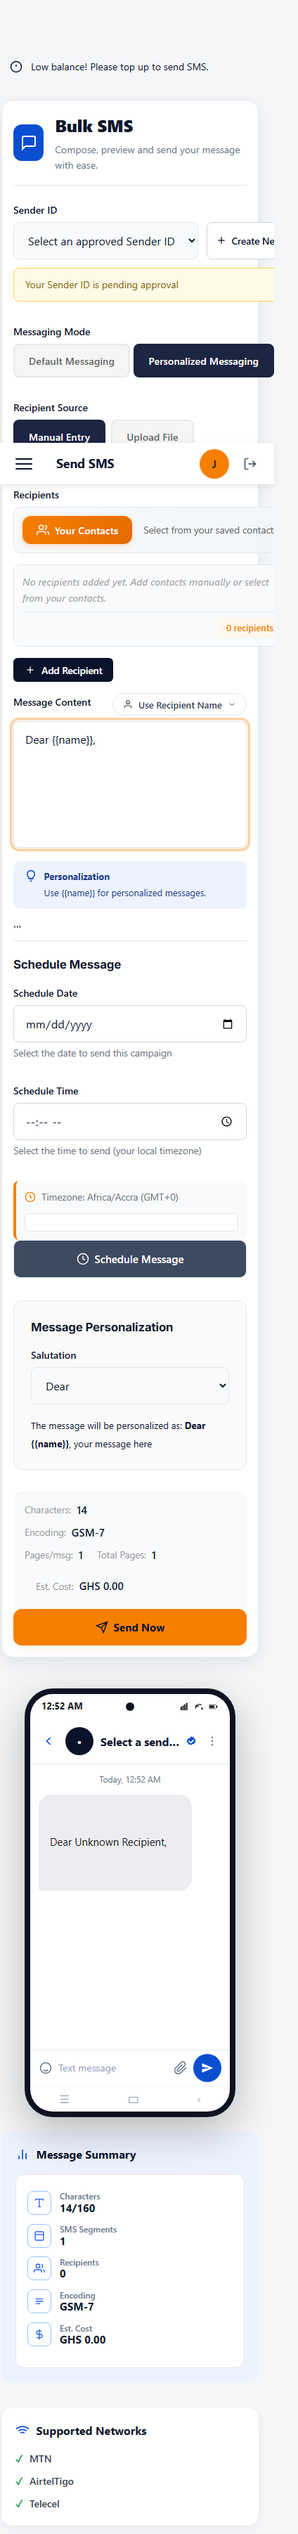
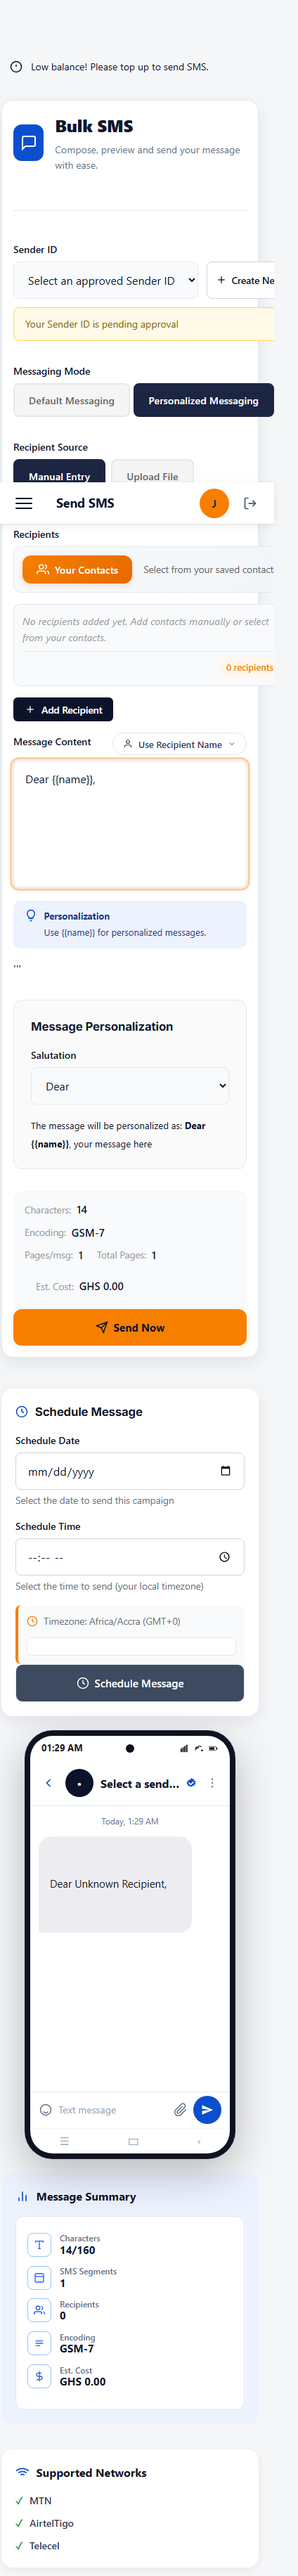
Move Schedule Message block to center column on Send SMS page

diff --git a/src/pages/dashboard/send-sms.html b/src/pages/dashboard/send-sms.html
@@ -156,7 +156,7 @@
 
                  <div class="ss2">
                  <div class="ss2-grid">
-                         <div class="sms-form-card">
+                         <div class="ss2-compose sms-form-card">
                              <div class="ss2-compose-header">
                                  <div class="ss2-compose-icon">
                                      <svg viewBox="0 0 24 24" fill="none" stroke="currentColor" stroke-width="2">
@@ -325,44 +325,7 @@
                             </div>'''
                             
 
-                           <!-- Schedule Date & Time Field -->
-                           <div class="schedule-section" id="scheduleSettings">
-                              <h3 class="section-title">Schedule Message</h3>
-                              <div class="form-row">
-                                  <div class="form-group">
-                                      <label for="scheduledDate">Schedule Date</label>
-                                      <input type="date" id="scheduledDate" name="scheduledDate" required min="">
-                                      <small>Select the date to send this campaign</small>
-                                  </div>
-                                  <div class="form-group">
-                                      <label for="scheduledTime">Schedule Time</label>
-                                      <input type="time" id="scheduledTime" name="scheduledTime" required>
-                                      <small>Select the time to send (your local timezone)</small>
-                                  </div>
-                              </div>
-                              <div class="schedule-info" id="scheduleInfo">
-                                  <div class="timezone-display">
-                                      <svg viewBox="0 0 24 24" fill="none" stroke="currentColor" stroke-width="2">
-                                          <circle cx="12" cy="12" r="10"></circle>
-                                          <polyline points="12 6 12 12 16 14"></polyline>
-                                      </svg>
-                                      <span id="timezoneDisplay">Detecting timezone...</span>
-                                  </div>
-                                  <div class="schedule-preview" id="schedulePreview">
-                                      <!-- Will show "Scheduled for Tomorrow at 9:00 AM" -->
-                                  </div>
-                              </div>
-                              <!-- Schedule Button (moved under schedule fields) -->
-                              <div class="schedule-action">
-                                  <button type="button" class="btn-secondary" id="scheduleBtn" disabled>
-                                      <svg viewBox="0 0 24 24" fill="none" stroke="currentColor" stroke-width="2">
-                                          <circle cx="12" cy="12" r="10"></circle>
-                                          <polyline points="12 6 12 12 16 14"></polyline>
-                                      </svg>
-                                      Schedule Message
-                                  </button>
-                              </div>
-                          </div>
+<!-- Schedule block moved to center column -->
 
                          <!-- Duplicate Handling Section -->
                          <div class="duplicate-handling-section" id="duplicateHandlingSection" style="display: none;">
@@ -525,15 +488,11 @@
                           </div>
                          </div> <!-- Close left column -->
 
-                       <!-- Right Sidebar: Schedule + Live Preview -->
-                       <div class="sms-form-right-sidebar">
 
+                    </form>
+                          </div> <!-- close compose card -->
 
-
-
-                   </form>
-                         </div>
-                     </div>
+                      <div class="ss2-col-center">
                           <div class="ss2-phone">
                               <div class="ss2-phone-body">
                                   <div class="ss2-phone-side-btn"></div>
@@ -589,6 +548,43 @@
                                   </div>
                               </div>
                           </div>
+                          <div class="schedule-section" id="scheduleSettings">
+                               <h3 class="section-title"><svg viewBox="0 0 24 24" fill="none" stroke="currentColor" stroke-width="2"><circle cx="12" cy="12" r="10"></circle><polyline points="12 6 12 12 16 14"></polyline></svg> Schedule Message</h3>
+                               <div class="form-group">
+                                       <label for="scheduledDate">Schedule Date</label>
+                                       <input type="date" id="scheduledDate" name="scheduledDate" required min="" form="sendSmsForm">
+                                       <small>Select the date to send this campaign</small>
+                               </div>
+                               <div class="form-group">
+                                       <label for="scheduledTime">Schedule Time</label>
+                                       <input type="time" id="scheduledTime" name="scheduledTime" required form="sendSmsForm">
+                                       <small>Select the time to send (your local timezone)</small>
+                               </div>
+                               <div class="schedule-info" id="scheduleInfo">
+                                   <div class="timezone-display">
+                                       <svg viewBox="0 0 24 24" fill="none" stroke="currentColor" stroke-width="2">
+                                           <circle cx="12" cy="12" r="10"></circle>
+                                           <polyline points="12 6 12 12 16 14"></polyline>
+                                       </svg>
+                                       <span id="timezoneDisplay">Detecting timezone...</span>
+                                   </div>
+                                   <div class="schedule-preview" id="schedulePreview">
+                                       <!-- Will show "Scheduled for Tomorrow at 9:00 AM" -->
+                                   </div>
+                               </div>
+                               <!-- Schedule Button (moved under schedule fields) -->
+                               <div class="schedule-action">
+                                   <button type="button" class="btn-secondary" id="scheduleBtn" disabled form="sendSmsForm">
+                                       <svg viewBox="0 0 24 24" fill="none" stroke="currentColor" stroke-width="2">
+                                           <circle cx="12" cy="12" r="10"></circle>
+                                           <polyline points="12 6 12 12 16 14"></polyline>
+                                       </svg>
+                                       Schedule Message
+                                   </button>
+                               </div>
+                           </div>
+                      </div>
+                      <div class="ss2-col-right">
                          <div class="ss2-summary">
                              <div class="ss2-summary-header">
                                  <svg viewBox="0 0 24 24" fill="none" stroke="currentColor" stroke-width="2">
@@ -664,6 +660,7 @@
                                  <li><span class="ss2-net-check">&#10003;</span> Telecel</li>
                              </ul>
                          </div>
+                      </div>
                      </div>
                  </div>
 

diff --git a/src/styles/pages/send-sms.css b/src/styles/pages/send-sms.css
@@ -2338,10 +2338,6 @@ body.page-send-sms .ss2-grid {
 body.page-send-sms .ss2-grid {
     display: grid;
     grid-template-columns: minmax(0, 1fr) 300px 250px;
-    grid-template-areas:
-        "compose phone summary"
-        "compose phone networks"
-        "compose . .";
     gap: 20px;
     align-items: start;
     min-width: 0;
@@ -2351,20 +2347,14 @@ body.page-send-sms .ss2-grid > * {
     min-width: 0;
 }
 
-body.page-send-sms .sms-form-card {
-    grid-area: compose;
-}
-
-body.page-send-sms .ss2-phone {
-    grid-area: phone;
-}
-
-body.page-send-sms .ss2-summary {
-    grid-area: summary;
-}
-
-body.page-send-sms .ss2-networks {
-    grid-area: networks;
+body.page-send-sms .ss2-compose,
+body.page-send-sms .ss2-col-center,
+body.page-send-sms .ss2-col-right {
+    display: flex;
+    flex-direction: column;
+    gap: 20px;
+    min-width: 0;
+    align-self: start;
 }
 
 body.page-send-sms .sms-form-card {
@@ -2619,32 +2609,27 @@ body.page-send-sms .btn-primary {
 @media (min-width: 768px) and (max-width: 1199px) {
     body.page-send-sms .ss2-grid {
         grid-template-columns: minmax(0, 1fr) 320px;
-        grid-template-areas:
-            "compose phone"
-            "compose summary"
-            "compose networks";
         gap: 20px;
     }
-    body.page-send-sms .sms-form-card { grid-area: compose; }
-    body.page-send-sms .ss2-phone { grid-area: phone; }
-    body.page-send-sms .ss2-summary { grid-area: summary; }
-    body.page-send-sms .ss2-networks { grid-area: networks; }
+    body.page-send-sms .ss2-compose { grid-column: 1; grid-row: 1 / span 2; }
+    body.page-send-sms .ss2-col-center { grid-column: 2; grid-row: 1; }
+    body.page-send-sms .ss2-col-right { grid-column: 2; grid-row: 2; }
 }
 
 @media (max-width: 767px) {
     body.page-send-sms .ss2-grid {
         grid-template-columns: 1fr;
-        grid-template-areas:
-            "compose"
-            "phone"
-            "summary"
-            "networks";
         gap: 20px;
     }
-    body.page-send-sms .sms-form-card { grid-area: compose; }
-    body.page-send-sms .ss2-phone { grid-area: phone; }
-    body.page-send-sms .ss2-summary { grid-area: summary; }
-    body.page-send-sms .ss2-networks { grid-area: networks; }
+    body.page-send-sms .ss2-col-center,
+    body.page-send-sms .ss2-col-right {
+        display: contents;
+    }
+    body.page-send-sms .ss2-compose { order: 1; }
+    body.page-send-sms .schedule-section { order: 2; }
+    body.page-send-sms .ss2-phone { order: 3; }
+    body.page-send-sms .ss2-summary { order: 4; }
+    body.page-send-sms .ss2-networks { order: 5; }
     body.page-send-sms .ss2-phone {
         justify-content: center;
         max-width: 320px;
@@ -2955,9 +2940,25 @@ body.page-send-sms .sms-form-left-column {
 }
 
 body.page-send-sms .schedule-section {
-    margin-top: 4px;
-    padding-top: 20px;
-    border-top: 1px solid #E2E8F0;
+    background: #fff;
+    border-radius: 16px;
+    box-shadow: 0 8px 24px rgba(11,19,43,0.08);
+    padding: 20px;
+    margin-top: 0;
+    border-top: none;
+}
+
+body.page-send-sms .schedule-section .form-group input[type="date"],
+body.page-send-sms .schedule-section .form-group input[type="time"] {
+    width: 100%;
+}
+
+body.page-send-sms .schedule-section .section-title svg {
+    width: 18px;
+    height: 18px;
+    vertical-align: -3px;
+    margin-right: 6px;
+    color: #0B4FD0;
 }
 
 body.page-send-sms .send-now-action {
